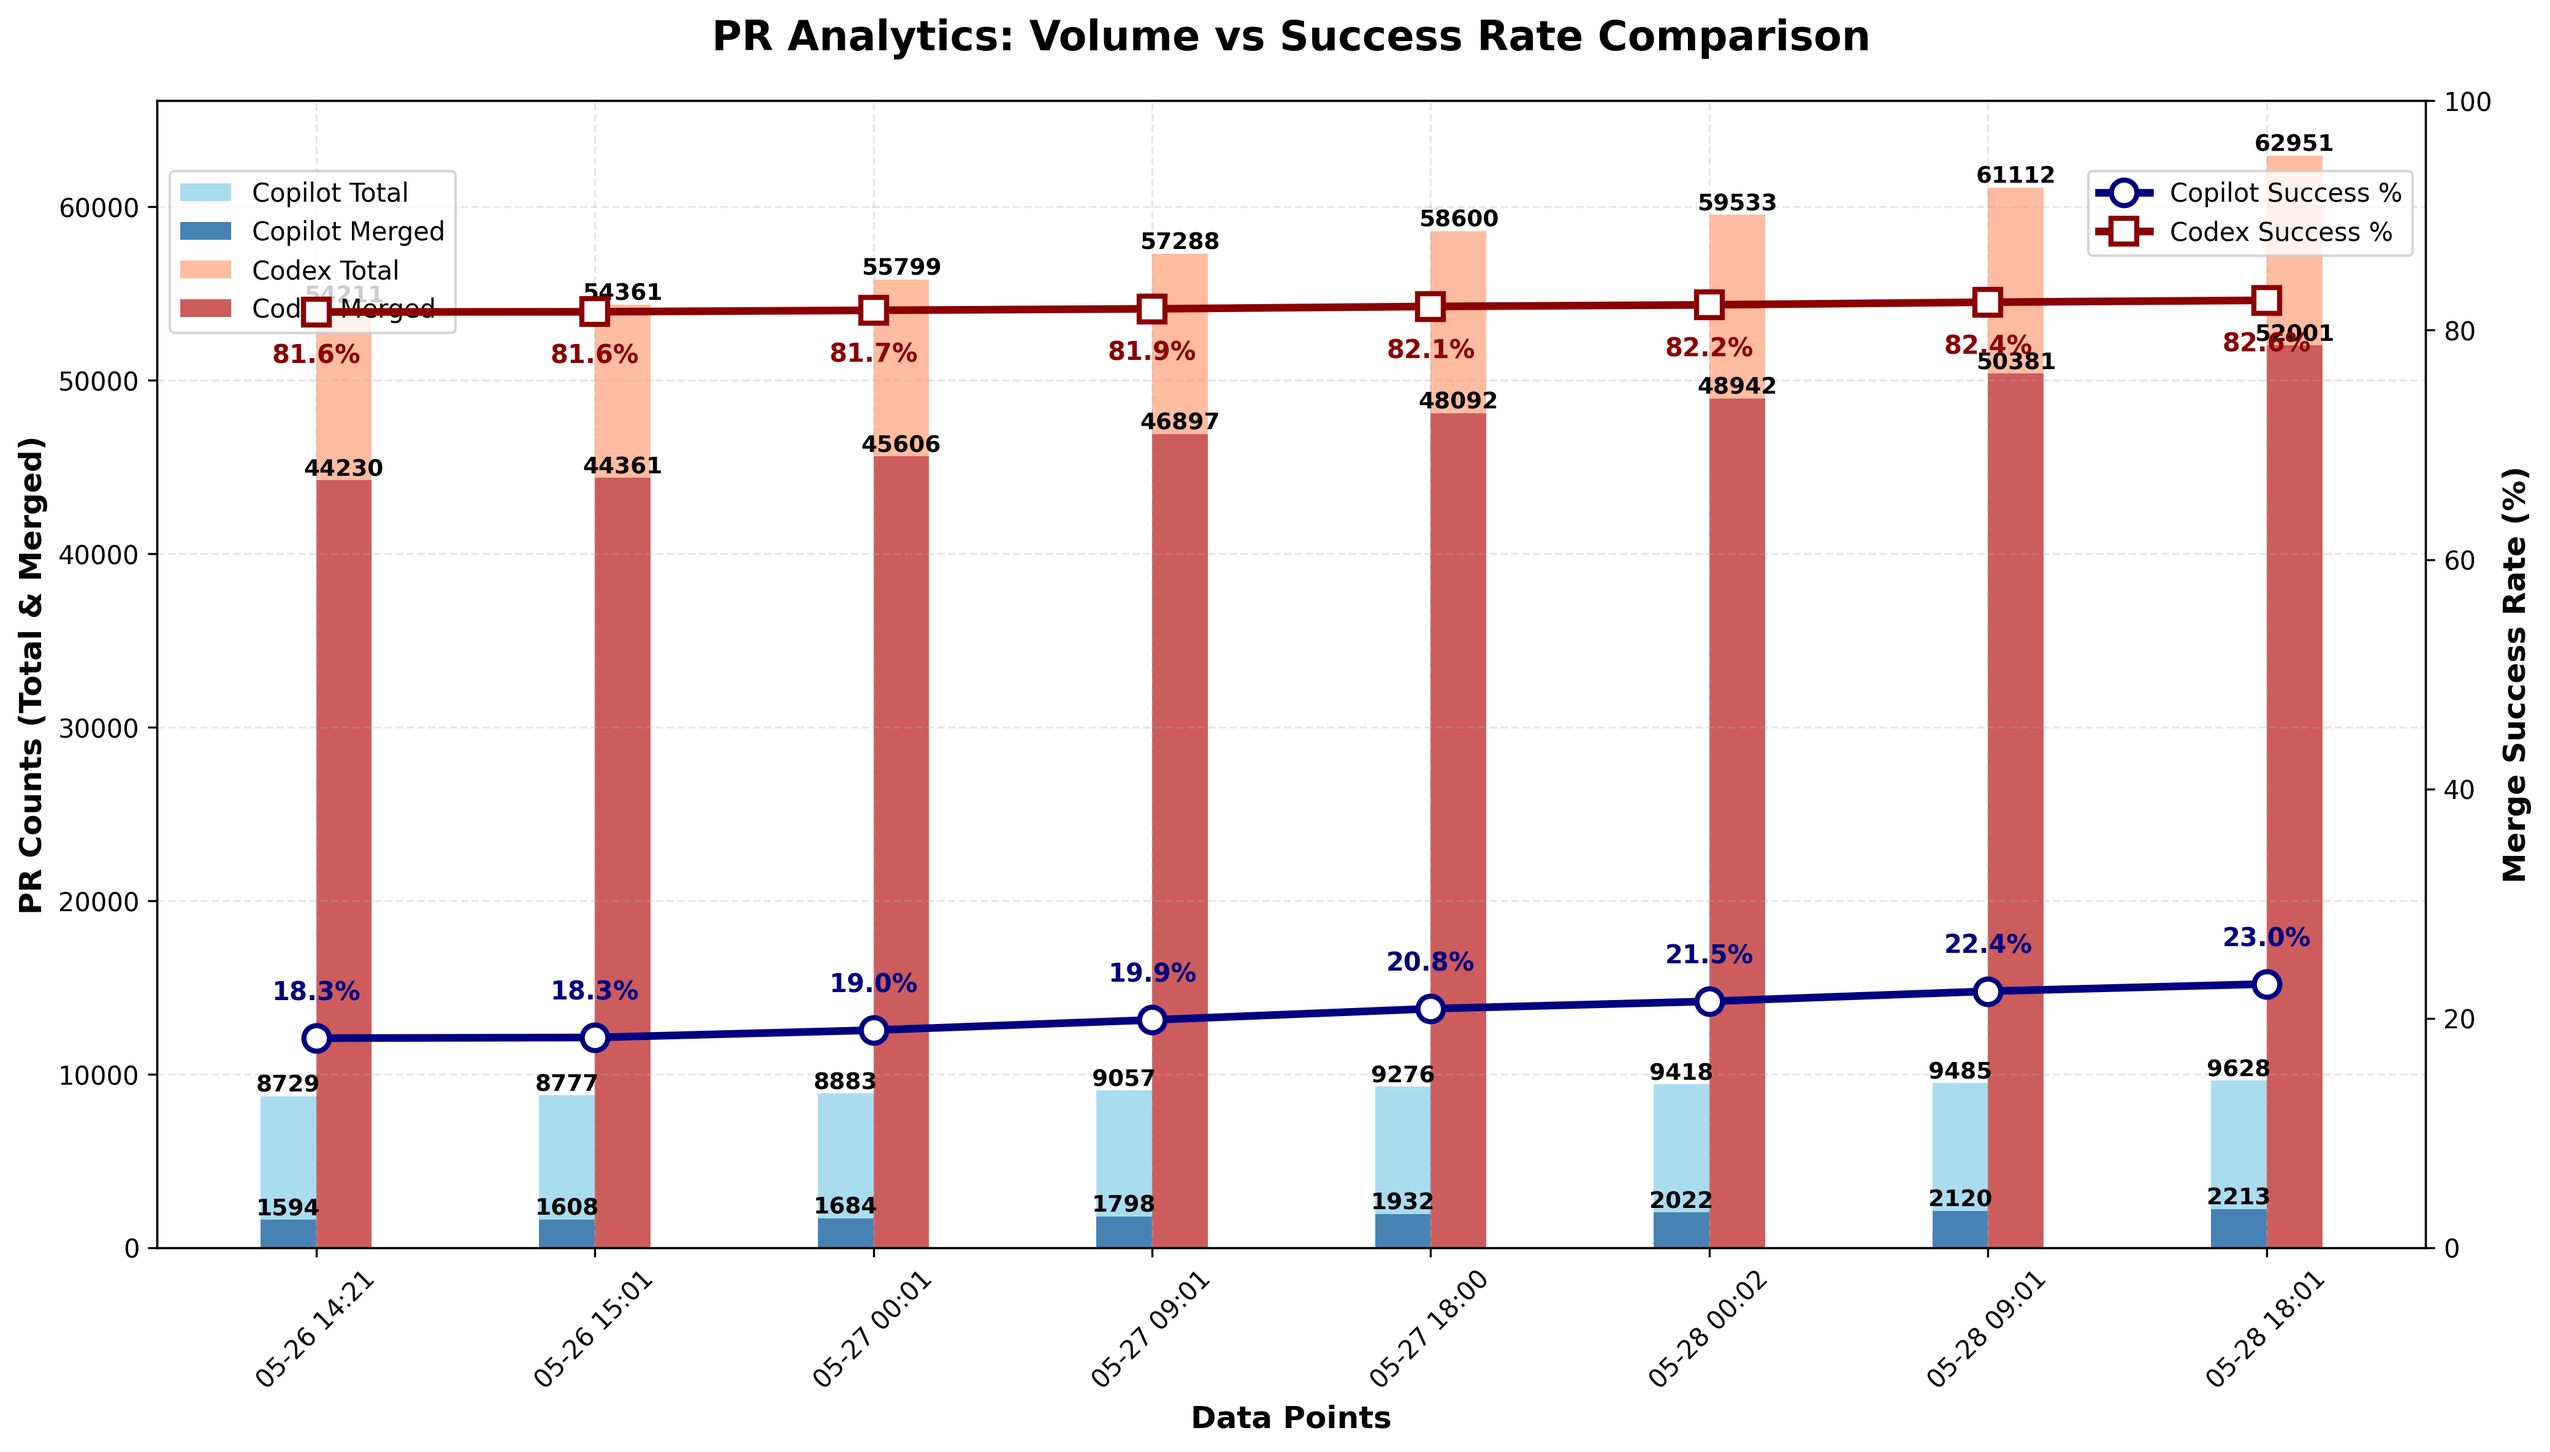
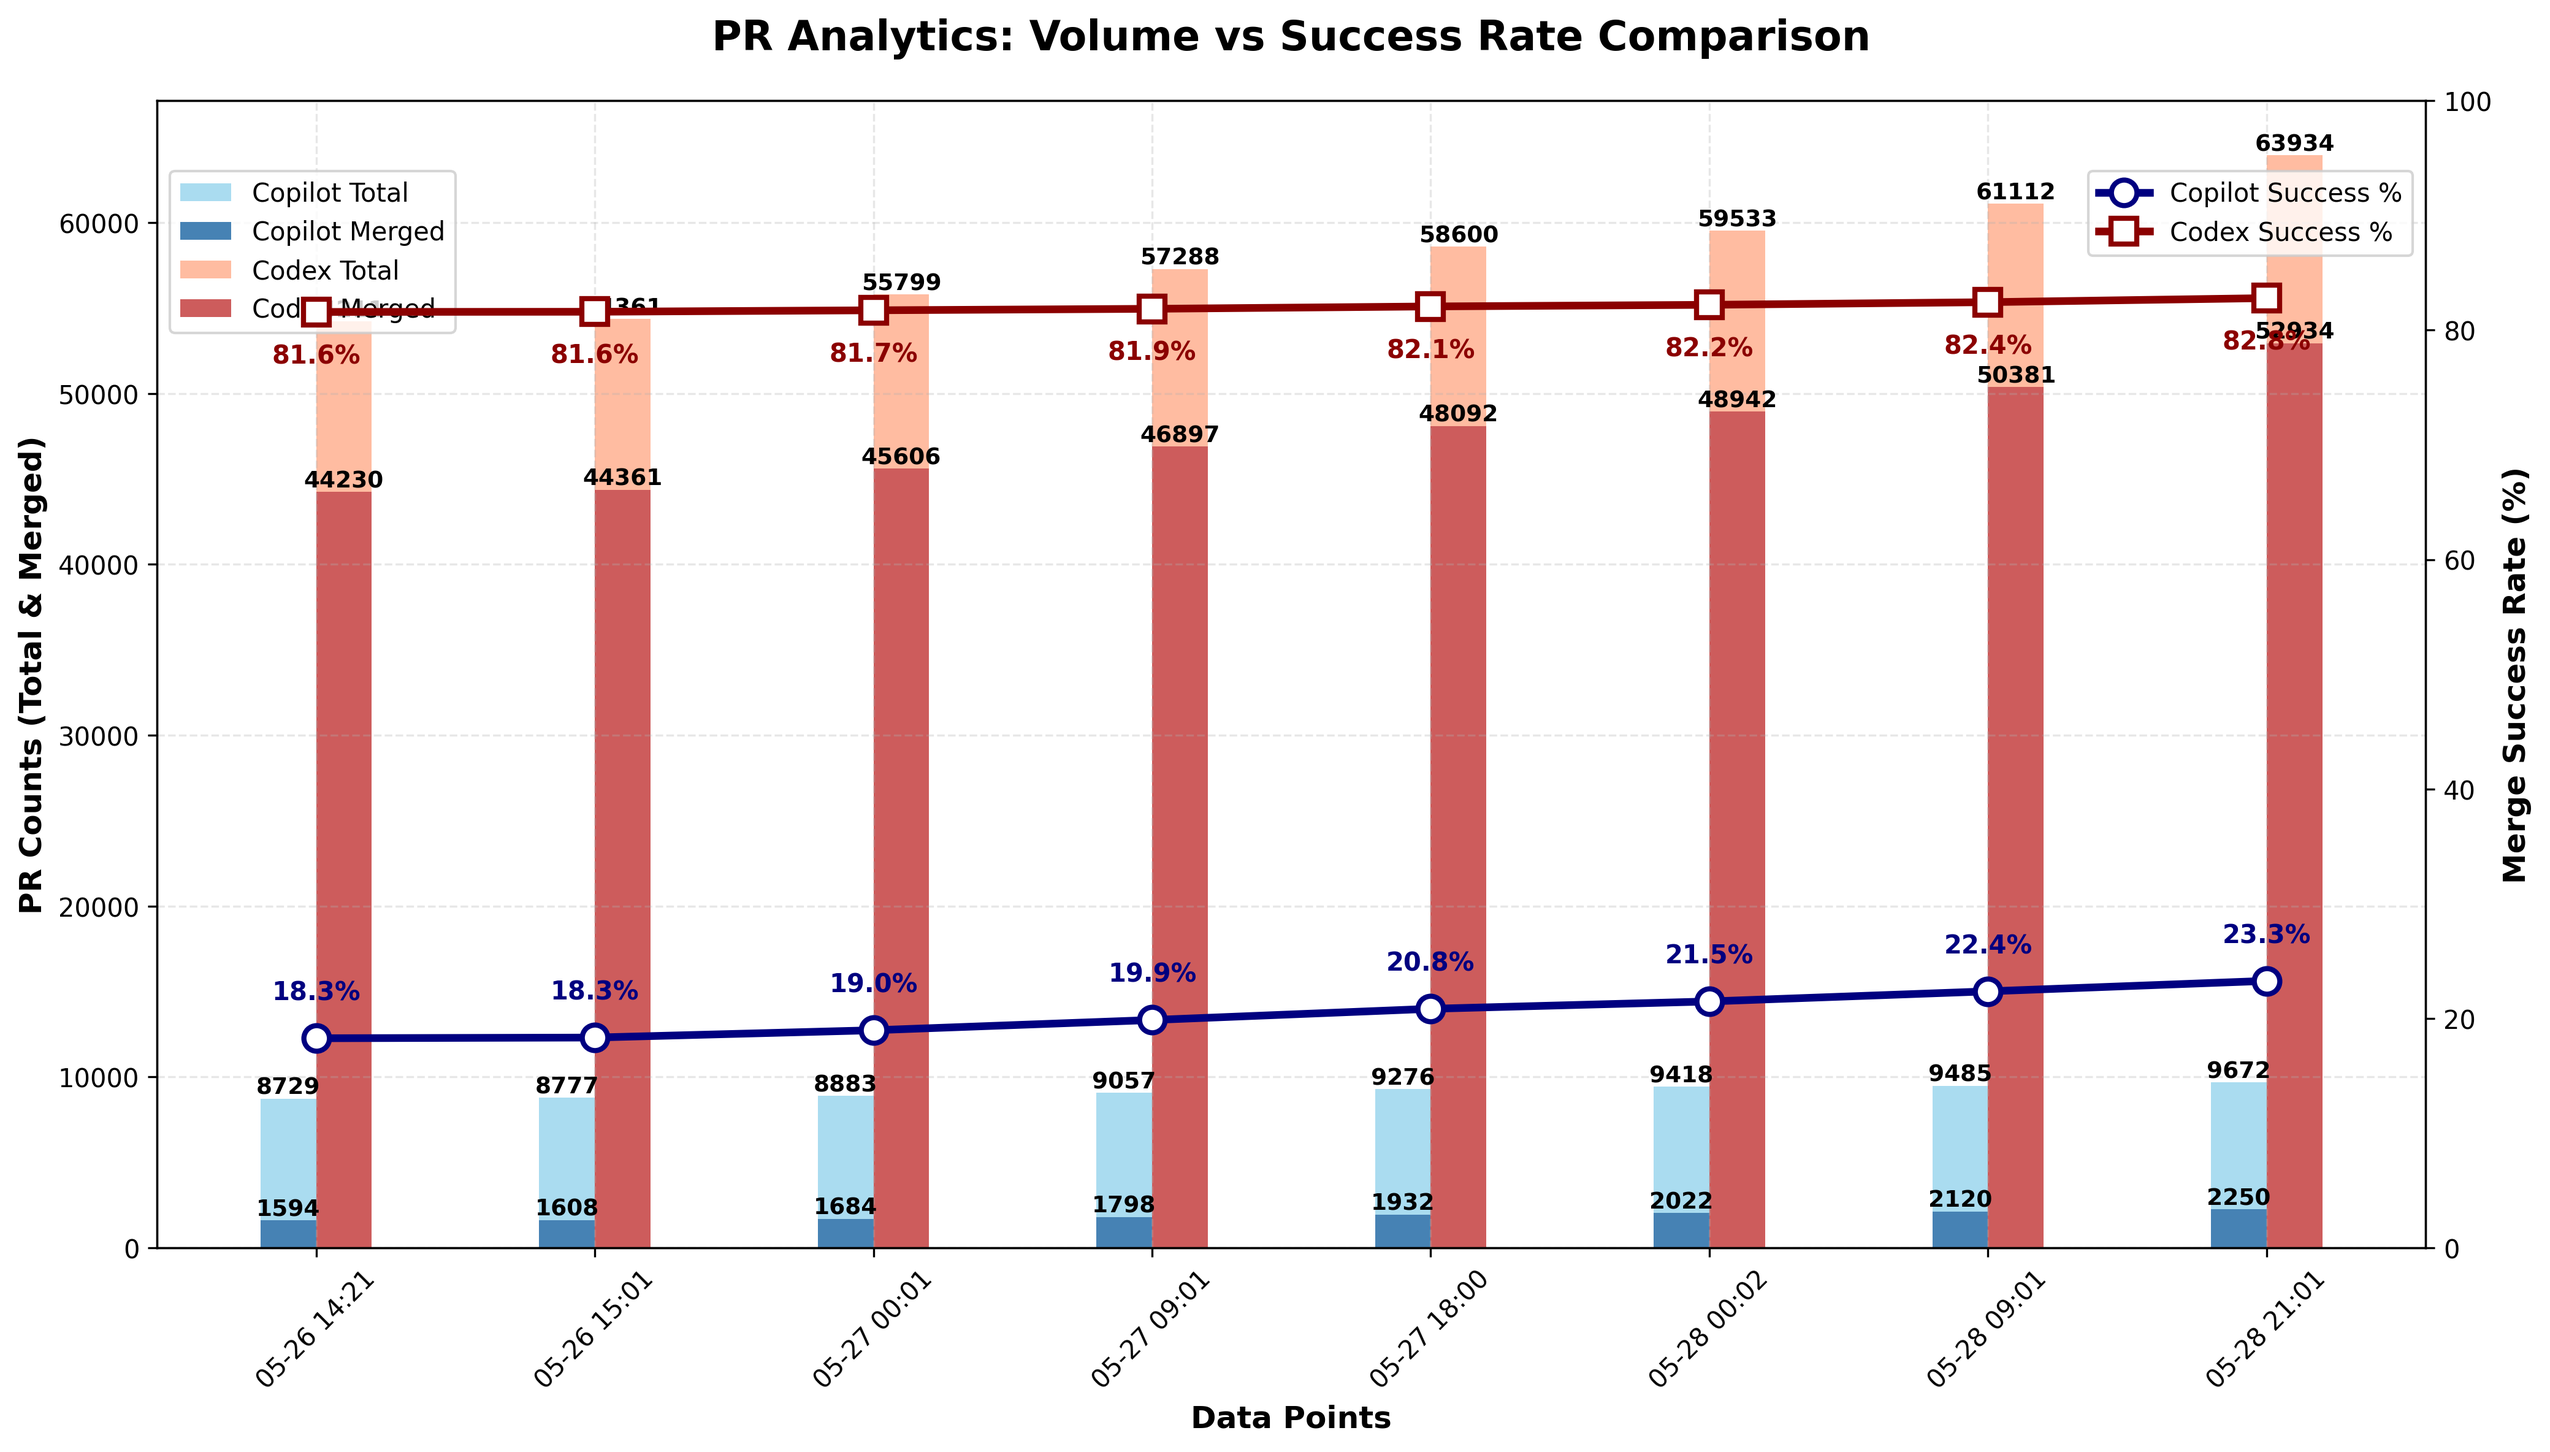
chore: update PR‑approval chart

diff --git a/docs/index.html b/docs/index.html
@@ -44,22 +44,22 @@
                 <tbody>
                     <tr>
                         <td>Copilot</td>
-                        <td>9,628</td>
-                        <td>2,213</td>
-                        <td>22.99%</td>
+                        <td>9,672</td>
+                        <td>2,250</td>
+                        <td>23.26%</td>
                     </tr>
                     <tr>
                         <td>Codex</td>
-                        <td>62,951</td>
-                        <td>52,001</td>
-                        <td>82.61%</td>
+                        <td>63,934</td>
+                        <td>52,934</td>
+                        <td>82.79%</td>
                     </tr>
                 </tbody>
             </table>
         </section>
 
         <footer>
-            <p>Last updated: <span id="last-updated">May 28, 2025 18:01 UTC</span></p>
+            <p>Last updated: <span id="last-updated">May 28, 2025 21:01 UTC</span></p>
             <p><a href="https://github.com/aavetis/ai-pr-watcher">View on GitHub</a></p>
         </footer>
     </div>

diff --git a/README.md b/README.md
@@ -19,5 +19,5 @@ Explore the GitHub search queries used:
 
 | Project | Total PRs | Merged PRs | Merge Rate |
 | ------- | --------- | ---------- | ---------- |
-| Copilot | 9,628 | 2,213 | 22.99% |
-| Codex   | 62,951 | 52,001 | 82.61% |
+| Copilot | 9,672 | 2,250 | 23.26% |
+| Codex   | 63,934 | 52,934 | 82.79% |
